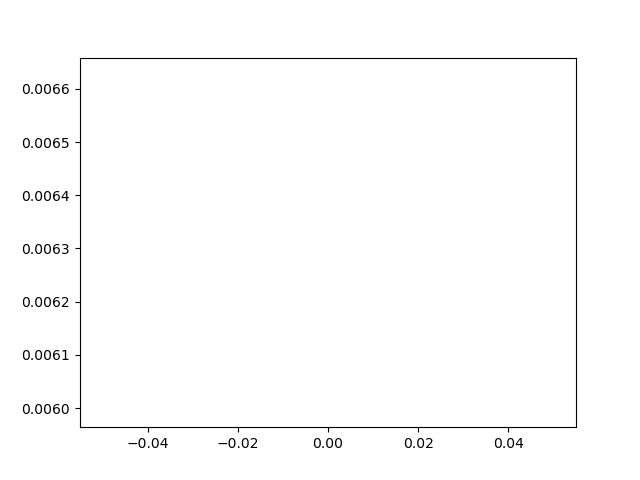
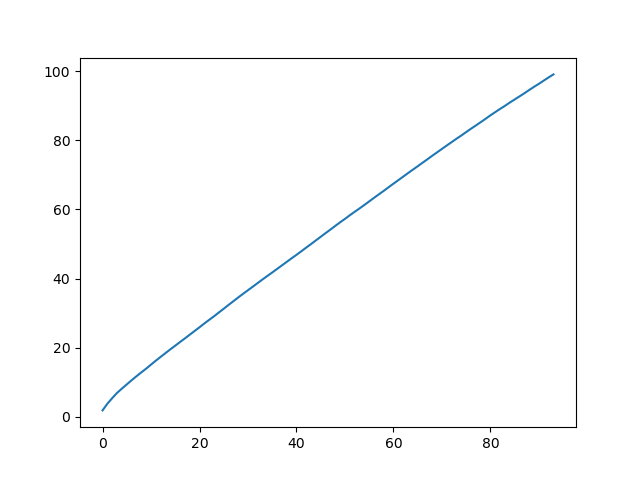
more ddp

diff --git a/train.py b/train.py
@@ -10,6 +10,7 @@ def train(model,loss,optimizer,tokens,batch_size=4,ddp=False):
     train_loss = []
     input_ids, attention_mask = tokens["input_ids"], tokens["attention_mask"]
     if ddp:
+        print("Lets use ddp")
         assert torch.cuda.is_available()
         init_process_group(backend="nccl")
         ddp_rank = int(os.environ["RANK"])
@@ -32,11 +33,12 @@ def train(model,loss,optimizer,tokens,batch_size=4,ddp=False):
     mega_batch = 2**10
     assert mega_batch % (batch_size*ddp_world_size) == 0
     accum_steps  = mega_batch // (batch_size*ddp_world_size)
-    mymodel = DDP(mymodel)
-    rawmodel = mymodel.module if ddp else mymodel
-
+    model.to(device)
+    model = DDP(model,device_ids=[ddp_local_rank])
+    rawmodel = model.module if ddp else model
+    loss_sofar = 0
     for epoch in range(num_epochs):
-        torch.save(mymodel,f"model_{model.num_heads}_{model.num_layers}_{model.hidden_dim}_{epoch}.pt")
+        # torch.save(model,f"model_{model.num_heads}_{model.num_layers}_{model.hidden_dim}_{epoch}.pt")
         # for i in tqdm(range(0,len(input_ids),batch_size)):
         for i in range(ddp_local_rank*batch_size,len(input_ids),batch_size*ddp_world_size):
             optimizer.zero_grad()
@@ -47,28 +49,32 @@ def train(model,loss,optimizer,tokens,batch_size=4,ddp=False):
                 input_batch = input_ids[start_at:end_at].to(device)
                 attn_batch = attention_mask[start_at:end_at].to(device) 
 
-                with torch.autocast(device_type= model.device, dtype = torch.float32):
-                    output = model.forward(input_batch,attn_batch)
+                
+                output = model.forward(input_batch,attn_batch)
             
-                tokens_onehot = F.one_hot(input_batch,num_classes = model.vocab_size).to(torch.float)
+                tokens_onehot = F.one_hot(input_batch,num_classes = model.module.vocab_size).to(torch.float)
                 # output has shape (B,L,V). The shift in targets is for next token prediction obviously
                 # So does tokens_onehot
                 batch_loss = loss(output[:,:-1,:].transpose(1,2),tokens_onehot[:,1:].transpose(1,2))
                 # batch_loss has dimensions (B,L-1)
                 batch_loss = batch_loss*attn_batch[:,1:] # double check this 1: vs :-1
                 batch_loss = (1/accum_steps)*torch.mean(batch_loss)
-
-            batch_loss.backward()
+                loss_sofar += batch_loss.detach()
+                if step == accum_steps - 1 and ddp:
+                    model.require_backward_grad_sync = True                    
+                batch_loss.backward()
+            if ddp:
+                dist.all_reduce(loss_sofar,op=dist.ReduceOp.AVG)
             optimizer.step()        
-            train_loss.append(batch_loss.item())  
-            print(batch_loss.item())  
+            train_loss.append(loss_sofar.item())  
+            print(loss_sofar.item())  
             if not torch.isfinite(batch_loss):
                 raise Exception("Loss gone crazy")
             if i % 500 == 0:          
                 plt.plot(train_loss)
                 plt.savefig("train_loss")
                 plt.show()
-    torch.save(mymodel,f"model_{model.num_heads}_{model.num_layers}_{model.hidden_dim}_final.pt")
+    # torch.save(mymodel,f"model_{model.num_heads}_{model.num_layers}_{model.hidden_dim}_final.pt")
     return model
                 
 if __name__ == "__main__":
